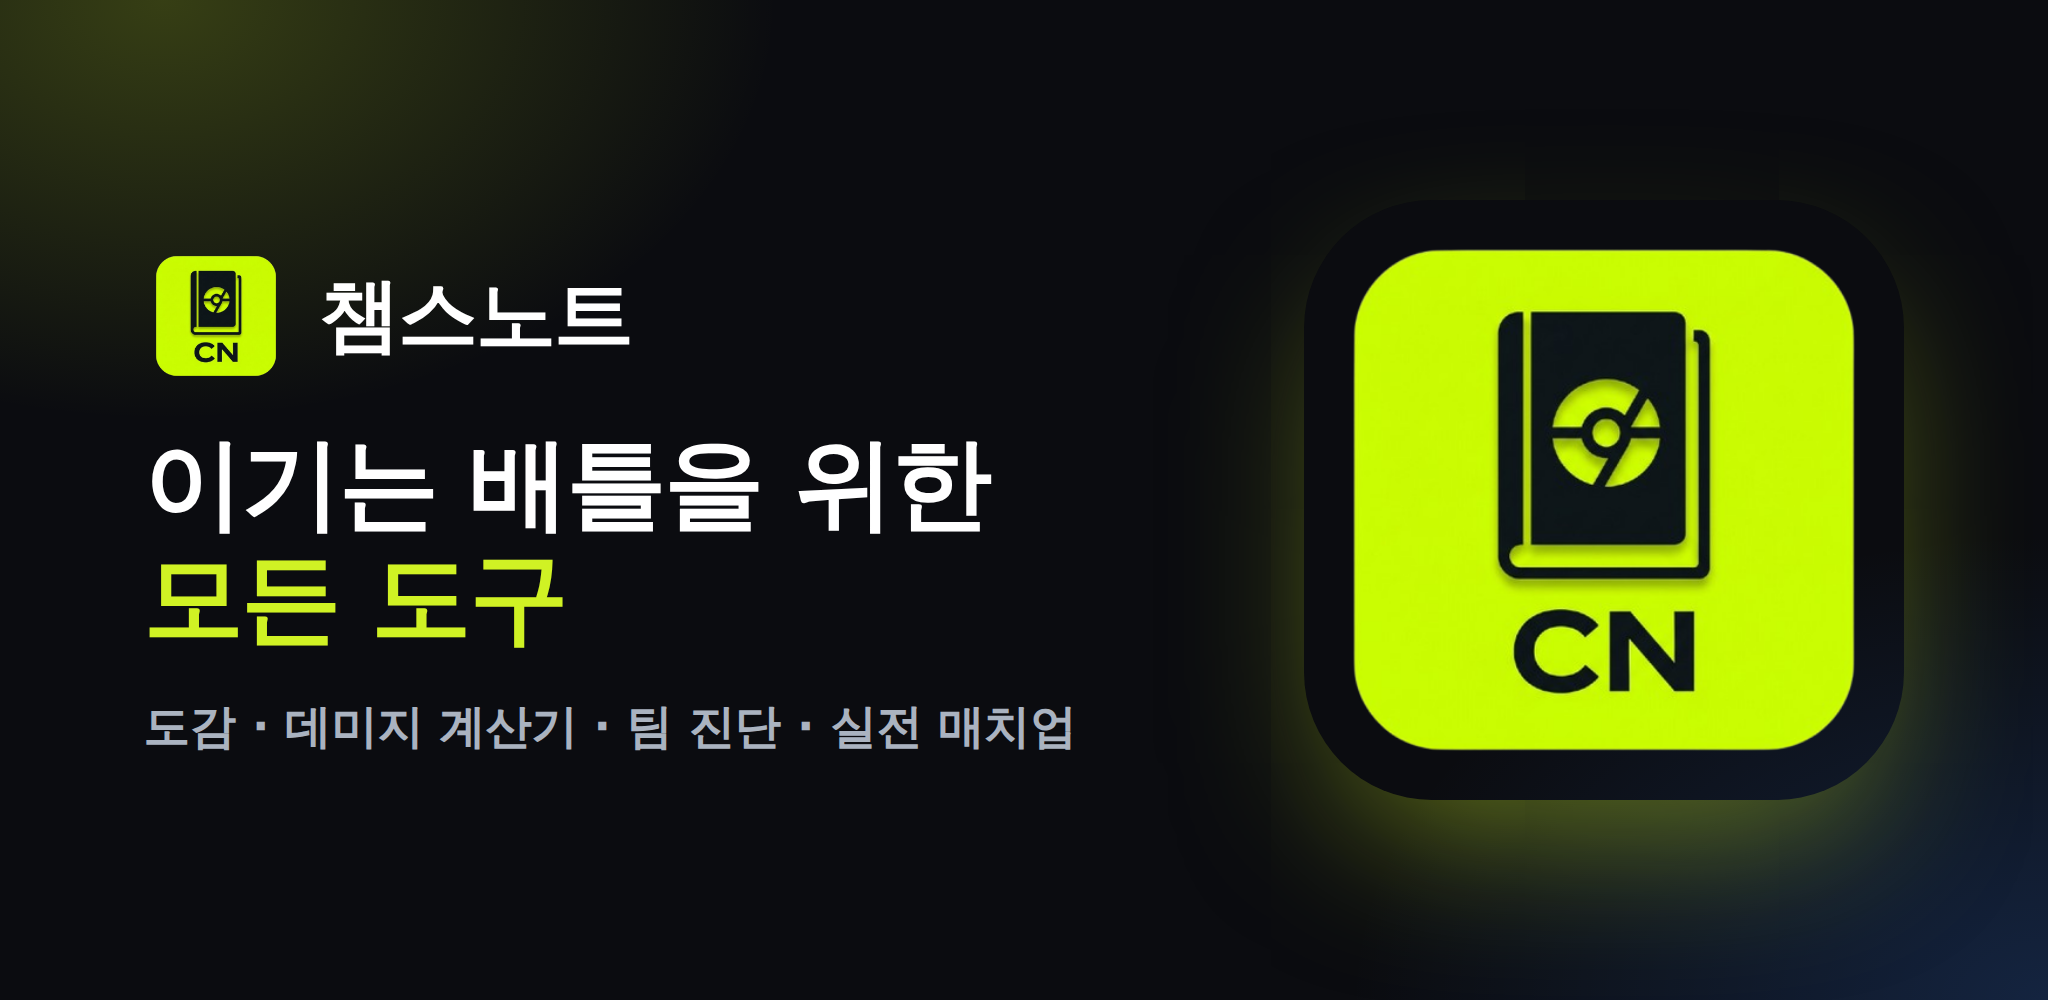
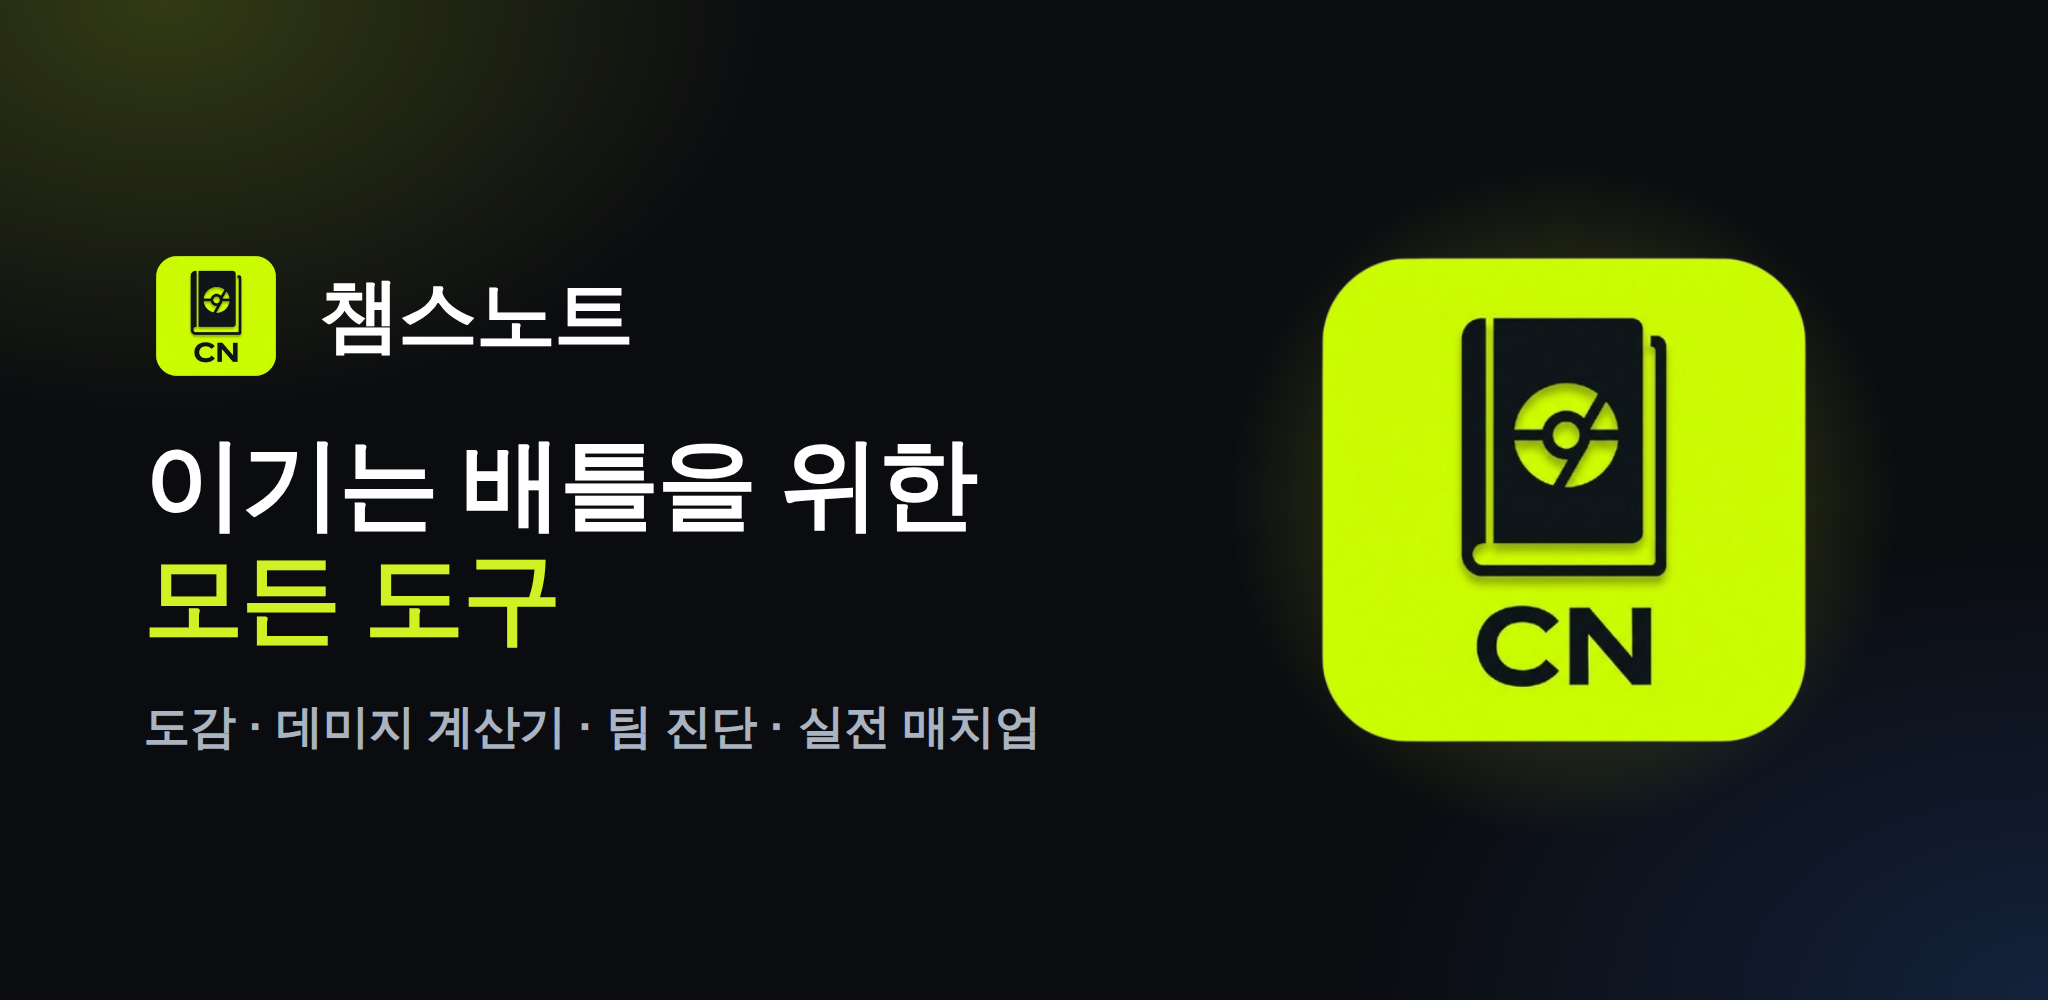
임베드 문구 수정 + 배너 글로우 개선 + 스토어 프로모 이미지 + 플레이스홀더 문구 제거
- 임베드 설명 문구 "…한곳에서. 챔스노트." → "…챔스노트 단 한곳에서." (index/manifest)
- feature-graphic 아이콘 글로우: 사각 box-shadow → 원형 radial glow(자연스러운 빛번짐)
- 스토어 프로모 이미지 5종(라이트 배경+헤드라인 캡션+폰 목업, 포챔스 스타일) 교체
- 플레이스홀더 문구 제거/정상화: '백엔드 배포 시 활성화' 등 구현 전 안내를 정식
  빈 상태 문구로 교체(gallery/notices/admin/auth providerHint)

Claude-Session: https://claude.ai/code/session_01S6s9RySqMnGRqk26k7ZQa5

diff --git a/web/index.html b/web/index.html
@@ -6,7 +6,7 @@
     <meta name="viewport" content="width=device-width, initial-scale=1.0, viewport-fit=cover" />
     <meta
       name="description"
-      content="포켓몬 챔피언스 랭크배틀을 위한 도감·데미지 계산기·팀 진단 코칭·실전 매치업 어시스턴트를 한곳에서. 챔스노트."
+      content="포켓몬 챔피언스 랭크배틀을 위한 도감·데미지 계산기·팀 진단 코칭·실전 매치업 어시스턴트를 챔스노트 단 한곳에서."
     />
     <meta name="theme-color" content="#000000" />
     <link rel="apple-touch-icon" href="/icon-192.png" />
@@ -19,7 +19,7 @@
     <meta property="og:title" content="챔스노트 — 포켓몬 챔피언스 배틀 파트너" />
     <meta
       property="og:description"
-      content="포켓몬 챔피언스 랭크배틀을 위한 도감·데미지 계산기·팀 진단 코칭·실전 매치업 어시스턴트를 한곳에서. 챔스노트."
+      content="포켓몬 챔피언스 랭크배틀을 위한 도감·데미지 계산기·팀 진단 코칭·실전 매치업 어시스턴트를 챔스노트 단 한곳에서."
     />
     <meta property="og:image" content="/og-banner.png" />
     <meta property="og:image:width" content="1200" />
@@ -28,7 +28,7 @@
     <meta name="twitter:title" content="챔스노트 — 포켓몬 챔피언스 배틀 파트너" />
     <meta
       name="twitter:description"
-      content="포켓몬 챔피언스 랭크배틀을 위한 도감·데미지 계산기·팀 진단 코칭·실전 매치업 어시스턴트를 한곳에서. 챔스노트."
+      content="포켓몬 챔피언스 랭크배틀을 위한 도감·데미지 계산기·팀 진단 코칭·실전 매치업 어시스턴트를 챔스노트 단 한곳에서."
     />
     <meta name="twitter:image" content="/og-banner.png" />
 

diff --git a/web/vite.config.ts b/web/vite.config.ts
@@ -16,7 +16,7 @@ export default defineConfig({
         name: '챔스노트 — 포켓몬 챔피언스 배틀 파트너',
         short_name: '챔스노트',
         description:
-          '포켓몬 챔피언스 랭크배틀을 위한 도감·데미지 계산기·팀 진단 코칭·실전 매치업 어시스턴트를 한곳에서. 챔스노트.',
+          '포켓몬 챔피언스 랭크배틀을 위한 도감·데미지 계산기·팀 진단 코칭·실전 매치업 어시스턴트를 챔스노트 단 한곳에서.',
         lang: 'ko',
         theme_color: '#0a0a0a',
         background_color: '#050505',

diff --git a/web/src/pages/Admin.tsx b/web/src/pages/Admin.tsx
@@ -88,9 +88,7 @@ export default function Admin() {
         {reports === null && <div className="mt-4 h-32 animate-pulse rounded-xl bg-zinc-100 dark:bg-white/5" />}
 
         {Array.isArray(reports) && reports.length === 0 && (
-          <p className="mt-4 text-sm text-zinc-500 dark:text-zinc-400">
-            {t('admin.empty')} <span className="text-[11px] text-zinc-400">({t('admin.needBackend')})</span>
-          </p>
+          <p className="mt-4 text-sm text-zinc-500 dark:text-zinc-400">{t('admin.empty')}</p>
         )}
 
         <div className="mt-3 space-y-3">

diff --git a/docs/store-assets/README.md b/docs/store-assets/README.md
@@ -10,7 +10,7 @@
 | `og-banner-1200x630.png` | 1200×630 | **링크 공유 임베드**(카카오톡·디스코드·트위터 등). `web/public/og-banner.png`로도 배포되어 `og:image`/`twitter:image`(summary_large_image)에 연결됨 |
 | `feature-graphic-1024x500.png` | 1024×500 | **Play Store 그래픽 이미지**(스토어 상단 배너) |
 | `icon-512.png` | 512×512 | 앱 아이콘 / 스토어 아이콘 |
-| `store-01-home … 06-stats.png` | 1080×1920 | **Play Store 스크린샷**(홈·도감·계산기·팀빌더·매치업·통계) |
+| `promo-01 … 05.png` | 1080×1920 | **Play Store 스크린샷**(라이트 배경 + 헤드라인 캡션 + 폰 목업). 홈·도감·포켓몬 상세·통계·타입상성 |
 
 > 재생성: `web/`에서 `docs/store-assets` 생성 스크립트(세션 기록 참고)로 배너·스크린샷을 다시 뽑을 수 있습니다. 아이콘·화면이 바뀌면 함께 갱신하세요.
 
